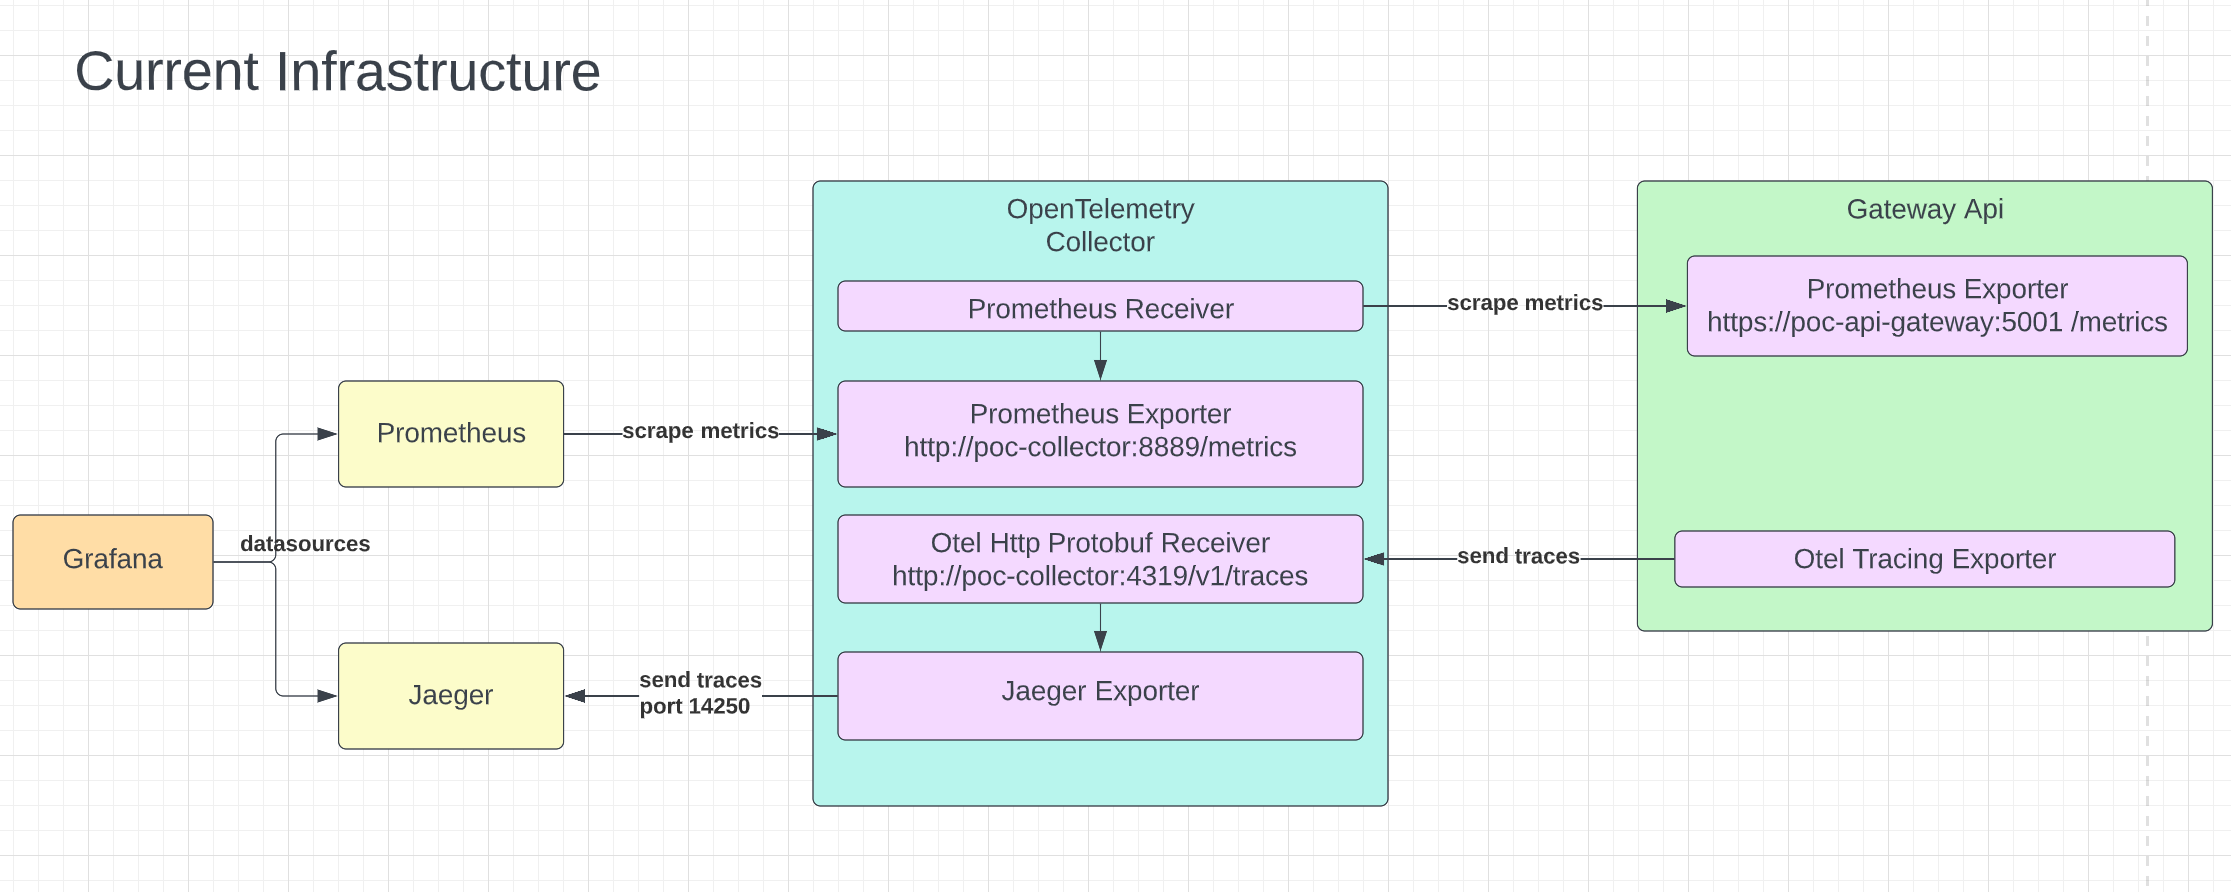
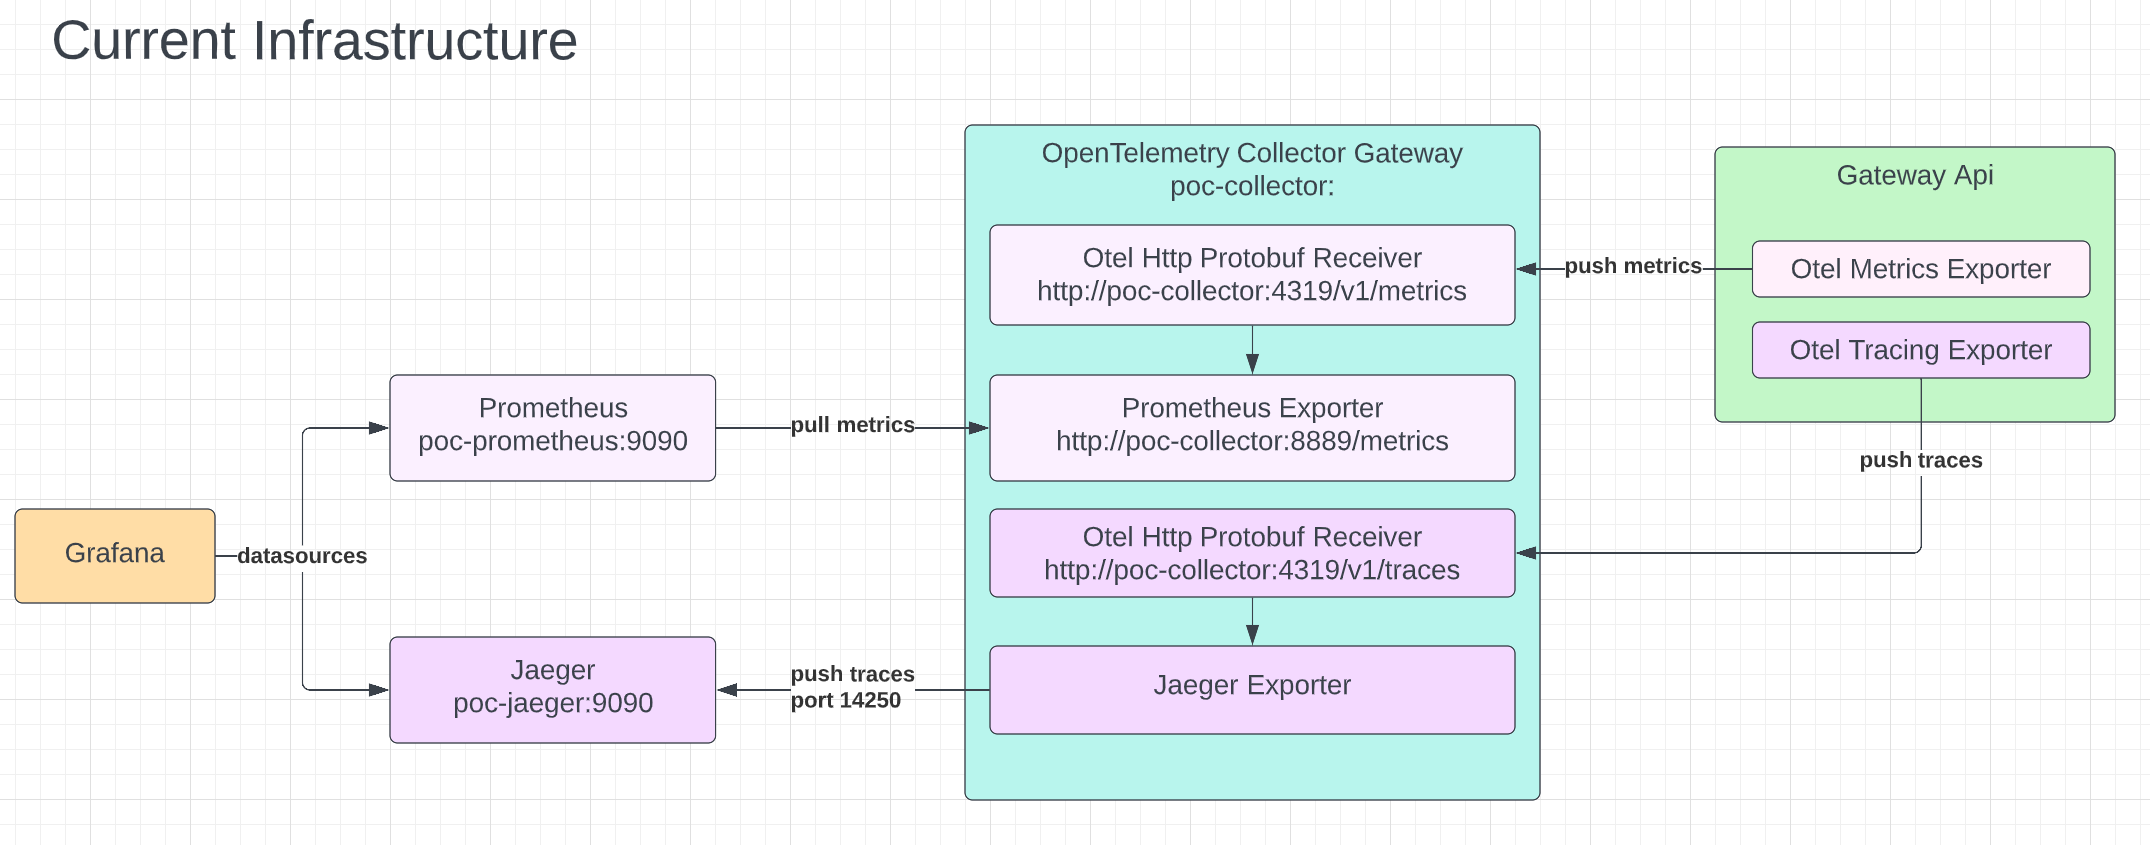
Added otel exporters for metrics

diff --git a/src/GatewayApi/Telemetry/Extensions/TelemetryStartupExtension.cs b/src/GatewayApi/Telemetry/Extensions/TelemetryStartupExtension.cs
@@ -1,10 +1,11 @@
-using Microsoft.AspNetCore.HttpLogging;
-using OpenTelemetry.Metrics;
+using OpenTelemetry.Metrics;
 using OpenTelemetry.Resources;
 using OpenTelemetry.Trace;
-using OpenTelemetry.Logs;
 using GatewayApi.Telemetry.Metrics;
+using OpenTelemetry;
+using OpenTelemetry.Exporter;
 using GatewayApi.Telemetry.Logging;
+using OpenTelemetry.Logs;
 using GatewayApi.Telemetry.Tracing;
 using static GatewayApi.Telemetry.Constants.TelemetryConstants;
 
@@ -20,14 +21,14 @@ namespace GatewayApi.Telemetry.Extensions
 
             builder.Logging.AddOpenTelemetry(options =>
             {
-                options.SetResourceBuilder(resource);
-                options.AddConsoleExporter();
+                options.SetResourceBuilder(resource);                
                 options.AddProcessor(new LogProcessor());
                 options.IncludeFormattedMessage = true;
                 options.ParseStateValues = true;
+                //options.AddConsoleExporter();
             });
 
-            builder.Logging.AddFilter<OpenTelemetryLoggerProvider>("*", LogLevel.Warning);  //Increase the logging level to reduce noise
+            builder.Logging.AddFilter<OpenTelemetryLoggerProvider>("*", LogLevel.Information);  //Increase the logging level to reduce noise
 
             builder.Services.AddTelemetry(resource);
         }
@@ -38,28 +39,44 @@ namespace GatewayApi.Telemetry.Extensions
             {
                 builder
                 .AddMeter(App_Source)
-                .SetResourceBuilder(resource)
+                .SetResourceBuilder(resource!)
                 .AddAspNetCoreInstrumentation()
-                .AddPrometheusExporter(); //This creates a prometheus scrape endpoint.  The collector will scrape this and produce it's own scrape endpoint.
-                //.AddConsoleExporter();  //Uncomment this if you want to see metrics exported to the console for debugging.
+                .AddOtlpExporter(options =>
+                {
+                    options.Endpoint = new Uri("http://poc-collector:4319/v1/metrics");
+                    options.Protocol = OtlpExportProtocol.HttpProtobuf;
+                    options.ExportProcessorType = ExportProcessorType.Simple;
+                    
+                    //You can optionally batch exports for efficiency.
+                    //options.ExportProcessorType = ExportProcessorType.Batch;
+                    //options.BatchExportProcessorOptions = new BatchExportProcessorOptions<Activity>()
+                    //{
+                    //    MaxQueueSize = 10,
+                    //    ScheduledDelayMilliseconds = 1000,
+                    //    ExporterTimeoutMilliseconds = 1000
+                    //};
+                })
+                //.AddPrometheusExporter(); //Creates a prometheus exporter. The collector will scrape this and produce it's own scrape endpoint.  See: app.UseOpenTelemetryPrometheusScrapingEndpoint() in program.cs
+                .AddConsoleExporter();  //Exports logs to console exporter.  Useful for debugging.
             });
 
             services.AddOpenTelemetryTracing(builder =>
             {
                 builder
-                    .SetResourceBuilder(resource)
+                    .SetResourceBuilder(resource!)
                     .AddAspNetCoreInstrumentation()
                     .AddSource(App_Source)
                     .AddProcessor(new TraceProcessor())
                     .AddOtlpExporter(options =>
                     {
                         options.Endpoint = new Uri("http://poc-collector:4319/v1/traces");
-                        options.Protocol = OpenTelemetry.Exporter.OtlpExportProtocol.HttpProtobuf;
+                        options.Protocol = OtlpExportProtocol.HttpProtobuf;
+                        options.ExportProcessorType = ExportProcessorType.Simple; //See: https://github.com/open-telemetry/opentelemetry-specification/blob/main/specification/trace/sdk.md#built-in-span-processors
                     });
                     //.AddConsoleExporter();  //Uncomment this if you want to see traces exported to the console for debugging.
             });
 
-            //Uncomment to see traditional logging output
+            //Uncomment to see traditional http logging output
             //services.AddHttpLogging(options =>
             //{
             //    options.LoggingFields = HttpLoggingFields.All;

diff --git a/src/GatewayApi/Program.cs b/src/GatewayApi/Program.cs
@@ -24,7 +24,7 @@ if (app.Environment.IsDevelopment())
     app.UseSwaggerUI();
 }
 
-app.UseOpenTelemetryPrometheusScrapingEndpoint();
+//app.UseOpenTelemetryPrometheusScrapingEndpoint();  You can use this to expose a prometheus scrape endpoint if desired.  This is an alternative to using an Otel exporter.
 app.UseTraceIdMiddleware();
 //app.UseHttpLogging();  //If you want to see traditional HTTP logs, uncomment this.  Good for determining if your /metrics endpoint is being scraped.
 

diff --git a/src/GatewayApi/Telemetry/Metrics/EndpointMetricsService.cs b/src/GatewayApi/Telemetry/Metrics/EndpointMetricsService.cs
@@ -9,8 +9,7 @@ namespace GatewayApi.Telemetry.Metrics
         public EndpointMetricsService()
         {
             _endpointResponseHistogram = PocMeter.CreateHistogram<long>(
-                name: "poc_http_response_histogram",
-                unit: "ms",
+                name: "http_response_histogram_ms",
                 description: "Api response histogram metrics with durations");
         }
 
